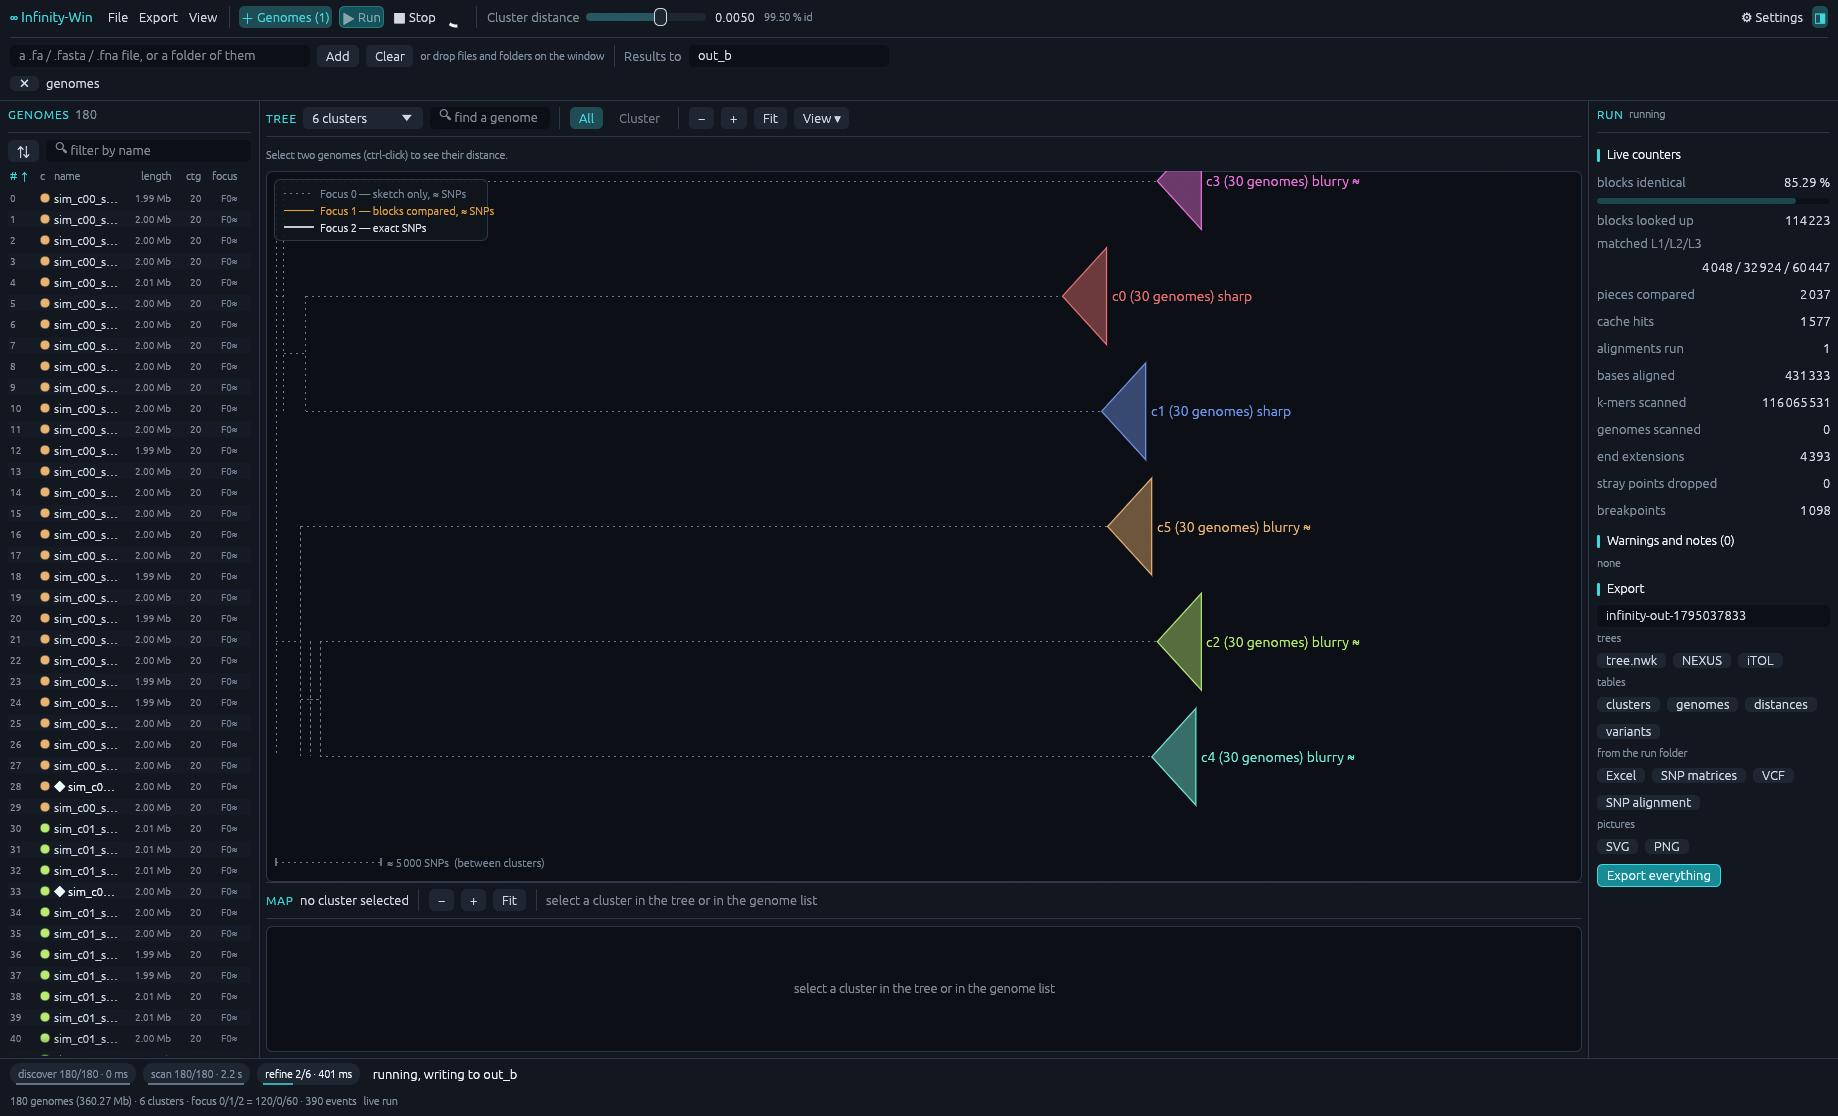
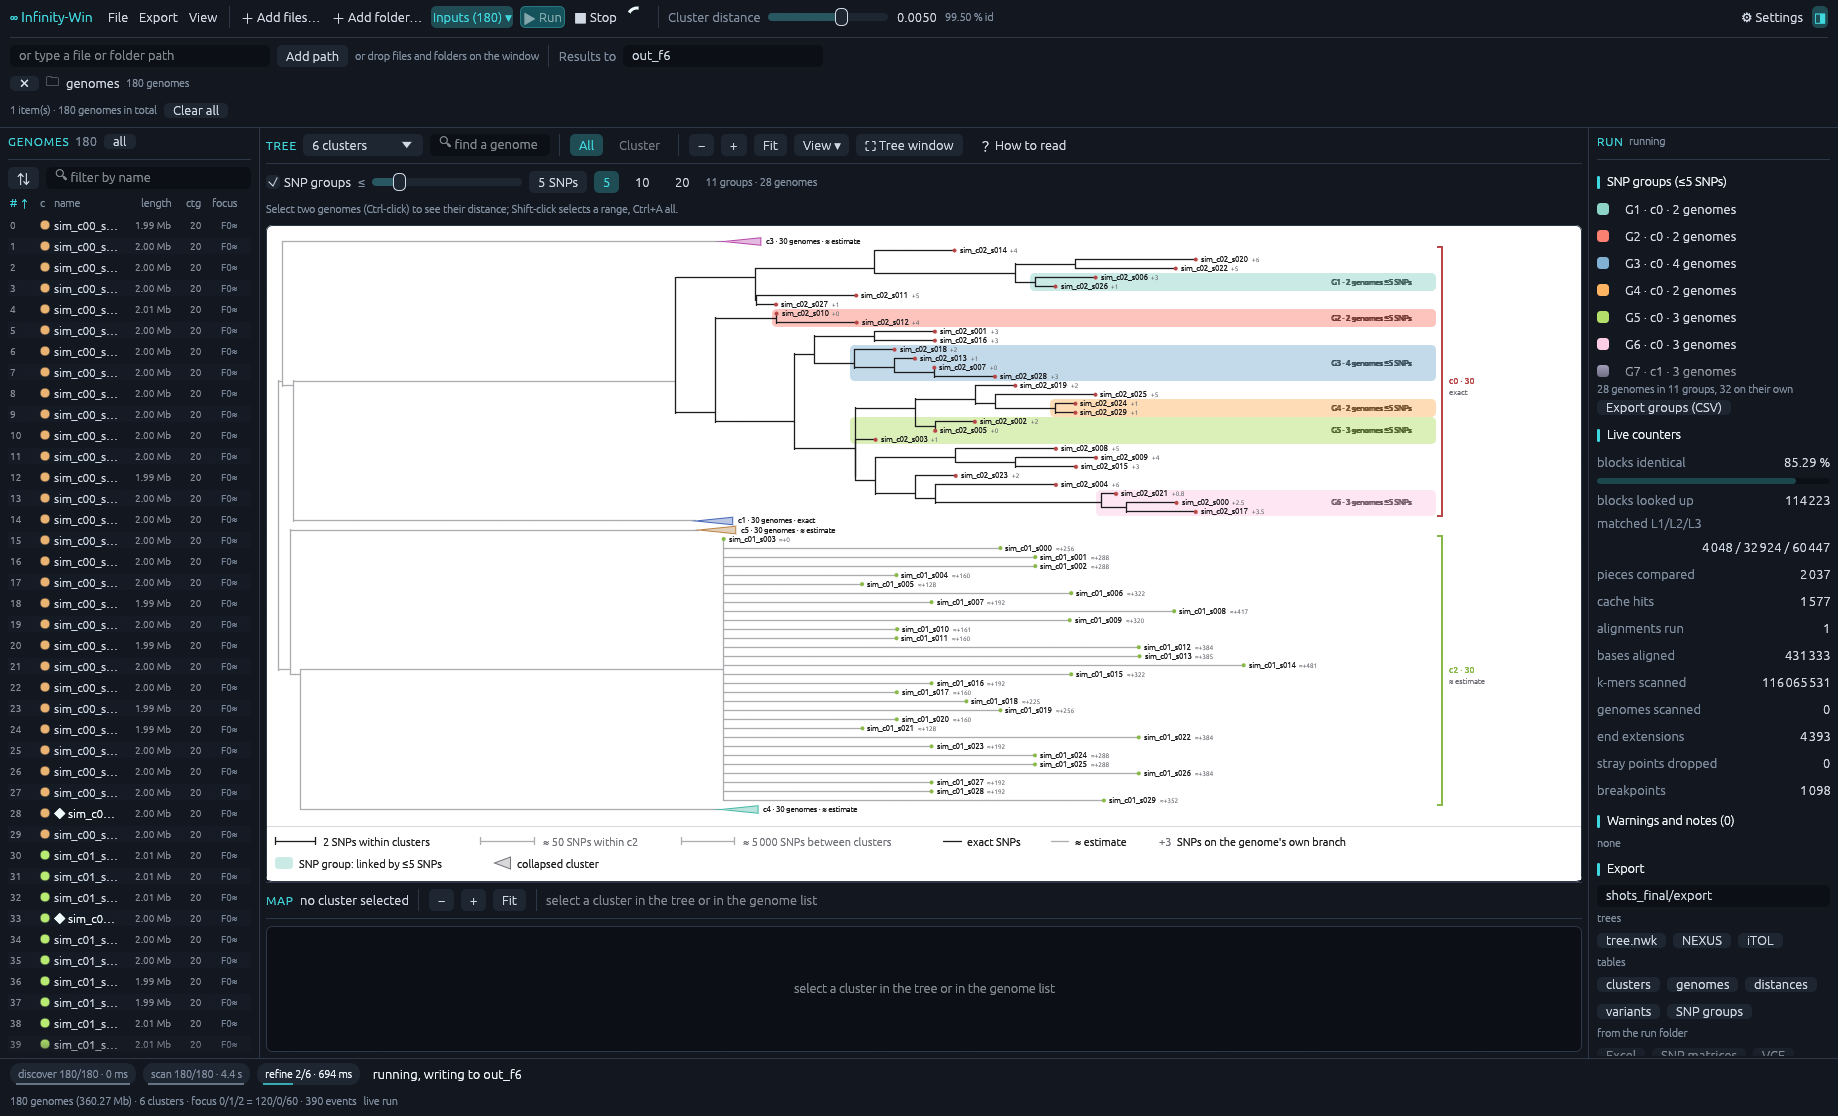
Docs: adding genomes, reading the tree, the SNP-group slider; new screenshots
README: the three steps use Add files / Add folder, a short 'Reading the
tree' section, and the SNP-groups and tree-window screenshots with captions.
USER_GUIDE: Adding genomes, Reading the tree and SNP groups sections in 'The
desktop program'; the screenshots (simulated genomes only) show the new tree:
finished-run.png and live-run.png replaced, snp-groups.png and
tree-window.png added.

diff --git a/docs/USER_GUIDE.md b/docs/USER_GUIDE.md
@@ -80,20 +80,32 @@ are lower than SKA2's; use `raw_snps` there.
 ## Screenshots
 
 **During a run.** 180 simulated genomes in 6 clusters. Two clusters are already
-exact ("sharp"); the other four still show their sketch estimate (dotted,
-"blurry ≈"). Distances are drawn in SNPs, with an approximate scale between
-clusters.
+exact; the others still show their sketch estimate (grey branches, numbers with
+`≈`). Distances are drawn in SNPs, with an approximate scale between clusters.
 
 ![Infinity-Win during a run](screenshots/live-run.png)
 
-**Finished.** Two clusters opened into their exact SNP trees with a scale bar in
-SNPs, two genomes selected (17 SNPs and 7 indels apart, shown above the tree),
-and the map of one cluster: each row is a genome against the cluster's pivot,
-red ticks are SNPs and blue ticks are insertions and deletions. The Run panel on
-the right exports trees (Newick, NEXUS for FigTree, iTOL), tables, the Excel
-workbook, SNP matrices, the VCF, the SNP alignment and pictures (SVG, PNG).
+**Finished.** One cluster opened into its exact SNP tree, the others collapsed
+into wedges. After every name, the SNPs on that genome's own branch (`+3`); the
+shaded bands are SNP groups at 5 SNPs; two genomes are selected (their distance
+is shown above the tree), and the map below shows them against the cluster's
+pivot: red ticks are SNPs, blue ticks insertions and deletions. The Run panel on
+the right lists the SNP groups and exports trees (Newick, NEXUS for FigTree,
+iTOL), tables, the SNP groups, the Excel workbook, SNP matrices, the VCF, the
+SNP alignment and pictures (SVG, PNG).
 
 ![Infinity-Win after a run](screenshots/finished-run.png)
+
+**SNP groups.** One cluster on its own (the **Cluster** button), with the slider
+at 5 SNPs: every shaded band is a group of genomes linked by chains of at most 5
+SNPs.
+
+![SNP groups at 5 SNPs](screenshots/snp-groups.png)
+
+**The tree window.** The whole tree as a figure on white, with the same SNP
+numbers, groups, scale bar and legend; save it as PNG or SVG.
+
+![The tree window](screenshots/tree-window.png)
 
 **Settings.** How far to refine (Sketch, Blocks or Exact SNPs), the cluster
 distance as % identity, whether to sharpen the distances between clusters, the
@@ -340,11 +352,67 @@ Infinity-Win --open results/                                    # explore a fini
 One window, four panels: genomes on the left, the tree in the middle, parameters
 and live counters on the right, and the map along the bottom.
 
+### Adding genomes
+
+- **＋ Add files…** opens the system's file dialog for one or more FASTA files
+  (`.fasta`, `.fa`, `.fna`, `.fas`, also gzipped). **＋ Add folder…** picks one or
+  more folders: every FASTA file directly inside a folder is one genome. Both
+  are in the toolbar, in the File menu, and as large buttons in the empty genome
+  list. The dialog runs beside the window, which keeps drawing while it is open.
+- **Drag and drop** files and folders anywhere on the window, or **type a path**
+  in the Inputs drawer and press Enter.
+- The **Inputs** drawer lists every file and folder with the number of genomes it
+  holds (a folder with none is flagged); remove one with its ✕, or all with
+  *Clear all*.
+
+On Linux the dialog is the desktop's own (through xdg-desktop-portal, falling
+back to `zenity`); see `DECISIONS.md` D3.
+
+### Reading the tree
+
+- **Branch length = SNPs**, with a scale bar under the tree. Dark branches are
+  exact SNP counts inside a cluster; grey branches are estimates: the distances
+  between clusters, or a cluster still being refined (its numbers carry `≈`).
+- **After every name, the SNPs on that genome's own branch**: `isolate_12  +3`
+  means three SNPs that its closest relatives in the tree do not share; `+0`
+  means none of its own. *View → SNPs at the tips* turns them off, *View → SNP
+  counts on internal branches* adds the counts on inner branches (where at least
+  one SNP falls).
+- **Collapsed clusters** are wedges labelled `c4 · 30 genomes · exact`; click
+  one to open it. Opened clusters are named by a bracket on the right.
+- The **legend** under the tree lists only what is drawn. **How to read** in the
+  tree header explains the picture in a few lines.
+- The tree is drawn on white like a figure; *View → White background* turns
+  that off to follow the window's theme. Aligned tip labels (with faint leader
+  lines) and a cluster colour strip are optional, also in *View*.
+
+### SNP groups: the slider
+
+The second line of the tree header sets the **SNP threshold**: a switch, a
+slider from 0 to 100 SNPs (the left part of the track goes 0–20 one SNP at a
+time), a number box, and 5 / 10 / 20 one click away. Default: on, 5 SNPs.
+
+Within each exact cluster, genomes linked by chains of at most that many SNPs
+(single linkage, as the engine's own `snp_clusters.tsv`) form a group. Every
+group of two or more genomes is shaded behind its tips and labelled
+`G3 · 4 genomes ≤5 SNPs`; groups are numbered down the tree. They follow the
+slider live. The Run panel lists them (click one to select its genomes,
+Ctrl-click to add them), and **Export groups (CSV)** writes every genome with its
+group at the current threshold (`snp_groups_le5.csv`). The tree window and the
+SVG export show the same shading.
+
+The SNP distances are the exact, filtered pairwise SNPs of the cluster: from the
+run itself, or, for clusters of more than 500 genomes and for opened folders,
+from `cluster_<id>.snp_matrix.tsv` in the output folder. Groups appear as soon
+as a cluster reaches Focus 2.
+
+### While it runs
+
 - **Live.** The window never blocks while computing. Every stage streams events,
-  and the tree redraws as focus improves: Focus 0 branches are dashed and pale,
-  Focus 1 solid and thin with an `≈` marker, Focus 2 solid and dark. Nodes move
-  smoothly to their new places when a cluster is refined.
-- **Clusters start collapsed** as a triangle with the member count. Click to open.
+  and the tree redraws as focus improves: estimated branches are grey, exact
+  ones dark, and every estimated number carries `≈`. Nodes move smoothly to their
+  new places when a cluster is refined.
+- **Clusters start collapsed** as a wedge with the member count. Click to open.
   Clicking a cluster also moves it to the front of the refinement queue, so you
   can look at the cluster you care about first.
 - **The cluster-distance slider takes effect immediately.** It re-clusters from
@@ -357,14 +425,10 @@ and live counters on the right, and the map along the bottom.
   a region that failed at level 1 is shown as a wide pale box that narrows as
   levels 2 and 3 are checked — the zoom made visible.
 - **Select two leaves** to see their pairwise distance, SNP count and focus.
-- **Export** the tree as Newick or PNG, plus the distance matrices, variants and
-  clusters.
+- **Export** the tree as Newick, SVG (a white figure) or PNG, plus the distance
+  matrices, variants, clusters and SNP groups.
 - **Open a finished run** from its output folder and browse it without
   recomputing.
-
-Genome folders are added by dragging them onto the window or by typing a path,
-with a list of recently used folders. A native file-picker dialog is deliberately
-not used; see `DECISIONS.md` D3.
 
 ---
 

diff --git a/README.md b/README.md
@@ -11,6 +11,11 @@ access to it.
 
 ![Infinity-Win after a run](docs/screenshots/finished-run.png)
 
+*After a run: one cluster opened into its exact SNP tree, the five others
+collapsed. After every name, the SNPs on that genome's own branch (`+3`); shaded
+bands are SNP groups (genomes linked by at most 5 SNPs, set with the slider above
+the tree); the scale bar and legend sit under the tree.*
+
 ## What it does
 
 - **Groups your genomes into clusters** of close relatives, from a quick sketch
@@ -28,12 +33,36 @@ per genome, contigs are fine.
 
 1. Unzip the download anywhere and double-click **Infinity-Win.exe**. (Windows
    may warn that the program is not signed: *More info → Run anyway*.)
-2. Click **+ Genomes**, or drag a folder of genomes onto the window.
+2. Click **＋ Add files…** or **＋ Add folder…** (or drag files and folders onto
+   the window). The list under **Inputs** shows how many genomes each holds.
 3. Click **Run**.
 
-Clusters appear within seconds as blurry triangles and turn into exact SNP
+Clusters appear within seconds as collapsed wedges and turn into exact SNP
 trees one by one. Click a cluster to open it, select two genomes to see their
 SNP distance, and use the **Run** panel on the right to export.
+
+## Reading the tree
+
+- **Branch length = SNPs.** Dark branches are exact SNP counts inside a
+  cluster; grey branches are estimates (between clusters, or a cluster still
+  being refined, marked `≈`).
+- **The number after a name** (`isolate_12  +3`) is the number of SNPs on that
+  genome's own branch: differences its closest relatives do not share. `+0`
+  means none of its own.
+- **SNP groups.** The slider above the tree (0–100 SNPs, with 5 / 10 / 20 one
+  click away) shades the genomes linked by chains of at most that many SNPs,
+  as `G3 · 4 genomes ≤5 SNPs`. The groups follow the slider live, are listed in
+  the Run panel (click one to select its genomes) and export as CSV.
+- **How to read** in the tree header explains all of this in the program.
+
+![SNP groups at 5 SNPs](docs/screenshots/snp-groups.png)
+
+*One cluster on its own (**Cluster**), SNP groups at 5 SNPs.*
+
+**⛶ Tree window** opens the whole tree as a figure on white, to save as PNG or
+SVG:
+
+![The tree window](docs/screenshots/tree-window.png)
 
 ## The one setting that matters: cluster distance
 
